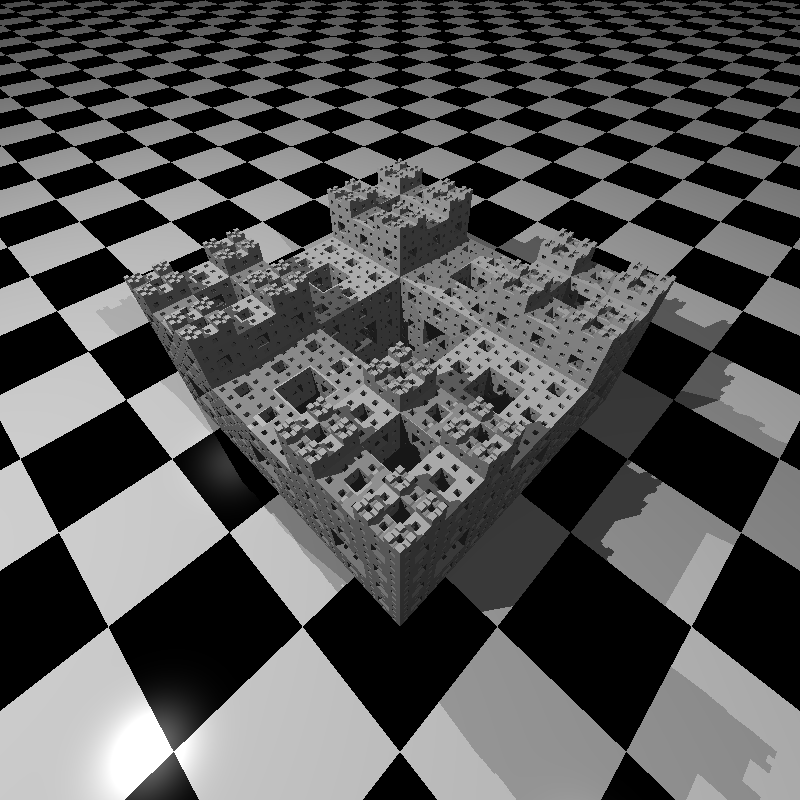
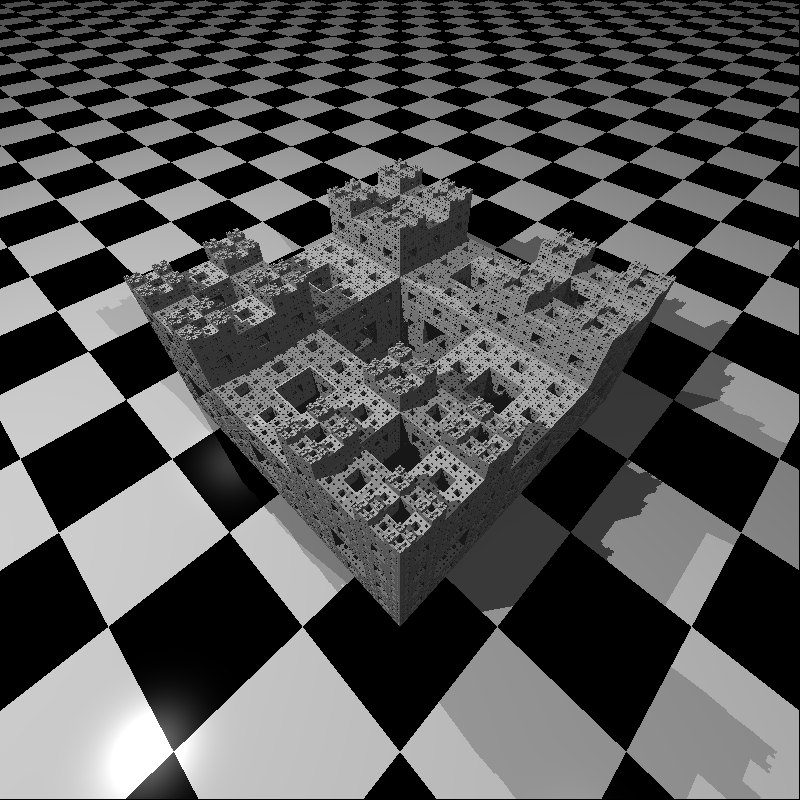
Chap 16: CSG (threads)

diff --git a/ray-tracer-lib/src/camera.rs b/ray-tracer-lib/src/camera.rs
@@ -1,7 +1,8 @@
 use io::stdout;
 use std::io;
 use std::io::Write;
-use std::sync::atomic::Ordering;
+use std::sync::atomic::{AtomicUsize, Ordering};
+use rayon::prelude::*;
 use crate::canvas::Canvas;
 use crate::core::math::Float;
 use crate::core::matrix::Matrix;
@@ -10,6 +11,9 @@ use crate::core::tuple::point;
 use crate::object::{INTERSECTION_COUNTER, OBJECT_COUNTER};
 use crate::world::World;
 use thousands::Separable;
+use crate::colors::Color;
+use std::time::{Instant};
+use std::sync::{Arc, Mutex};
 
 pub struct Camera {
     pub h_size: usize,
@@ -20,6 +24,20 @@ pub struct Camera {
     pub pixel_size: Float,
     pub transform: Matrix<4>,
     pub inverse_transform: Matrix<4>,
+}
+
+pub struct Pixel {
+    x : usize,
+    y : usize,
+    color : Color,
+}
+
+pub struct Block {
+    x_min : usize,
+    x_max : usize,
+    y_min : usize,
+    y_max : usize,
+    pixels : Vec<Pixel>
 }
 
 impl Camera {
@@ -67,6 +85,62 @@ impl Camera {
     }
 
     pub fn render(&self, world: &World, file_path: &str) -> Canvas {
+        let mut blocks: Vec<Block> = vec![];
+        let n = 20;
+        let nx = self.v_size / n;
+        let ny = self.h_size / n;
+
+        for i in 0..nx {
+            for j in 0..ny {
+                let block = Block {
+                    x_min: usize::min(i * n, self.v_size-1),
+                    x_max: usize::min((i+1) * n, self.v_size-1),
+                    y_min: usize::min(j * n, self.h_size-1),
+                    y_max: usize::min((j+1) * n, self.h_size-1),
+                    pixels: vec![],
+                };
+                blocks.push(block);
+            }
+        }
+
+        let num_block = AtomicUsize::new(0);
+        let num_pixel = AtomicUsize::new(0);
+        let nb_objects = OBJECT_COUNTER.load(Ordering::Relaxed).separate_with_commas();
+        let start = Arc::new(Mutex::new(Instant::now()));
+
+        let mut image = Canvas::new(self.h_size, self.v_size);
+        blocks.par_iter_mut().for_each(|block| {
+            num_block.fetch_add(1, Ordering::SeqCst);
+            for x in block.x_min..block.x_max {
+                for y in block.y_min..block.y_max {
+                    let ray = self.ray_for_pixel(x, y);
+                    let color = world.color_at(&ray, 5);
+                    let pixel = Pixel { x, y, color };
+                    block.pixels.push(pixel);
+                    let nb_pixels = num_pixel.fetch_add(1, Ordering::SeqCst);
+                    let mut guard = start.lock().unwrap();
+                    let t = guard.elapsed().as_secs();
+                    if t > 1 {
+                        let pct= nb_pixels as f32 / (self.v_size*self.h_size) as f32 * 100.0;
+                        print!("\r{:3.2} % - {} / {} - {} - {} inters - {} Objs, {}", pct, nb_pixels, self.v_size*self.h_size, file_path, INTERSECTION_COUNTER.load(Ordering::Relaxed).separate_with_commas(), OBJECT_COUNTER.load(Ordering::Relaxed).separate_with_commas(), nb_objects);
+                        let _ = stdout().flush();
+                        *guard = Instant::now();
+                    }
+                }
+            }
+        });
+
+        for block in blocks.iter() {
+            for pixel in block.pixels.iter() {
+                image.write_pixel(pixel.x, pixel.y, pixel.color);
+            }
+        }
+
+        println!();
+        image
+    }
+
+    pub fn _render(&self, world: &World, file_path: &str) -> Canvas {
         let mut image = Canvas::new(self.h_size, self.v_size);
         let nb_objects = OBJECT_COUNTER.load(Ordering::Relaxed).separate_with_commas();
 

diff --git a/ray-tracer-cli/src/scenes/menger_scene.rs b/ray-tracer-cli/src/scenes/menger_scene.rs
@@ -67,7 +67,7 @@ impl Scene for MengerCastleScene {
         floor.set_material(material_floor.clone());
         world.objects.push(floor);
 
-        let menger_sponge = MengerSponge::new(3);
+        let menger_sponge = MengerSponge::new(4);
         let mut cube = build_cube();
         cube.set_transformation(&scaling(2.0, 1.0, 2.0) * &translation(0.0, 1.0, 0.0));
 
